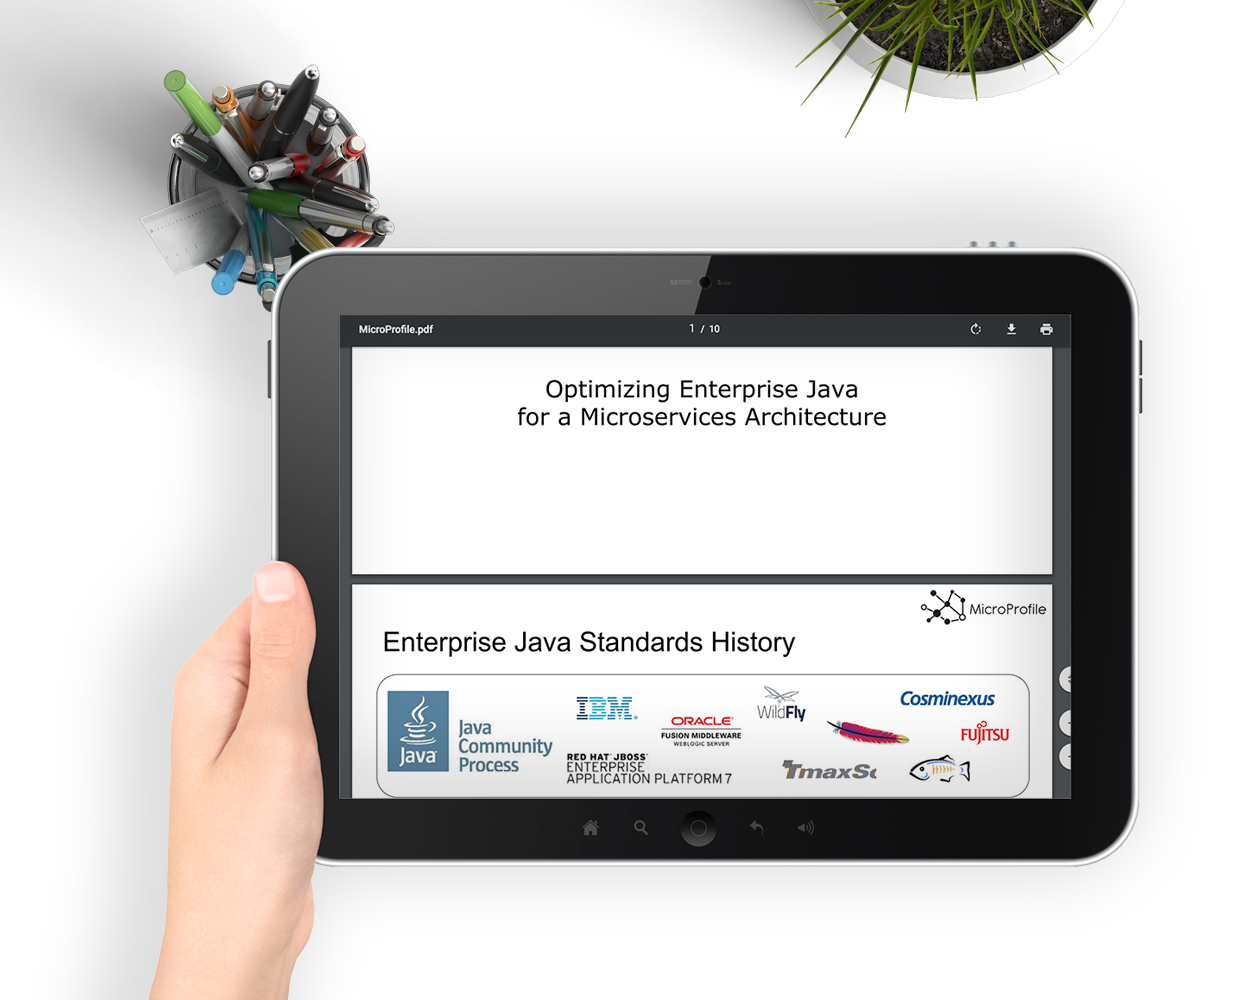
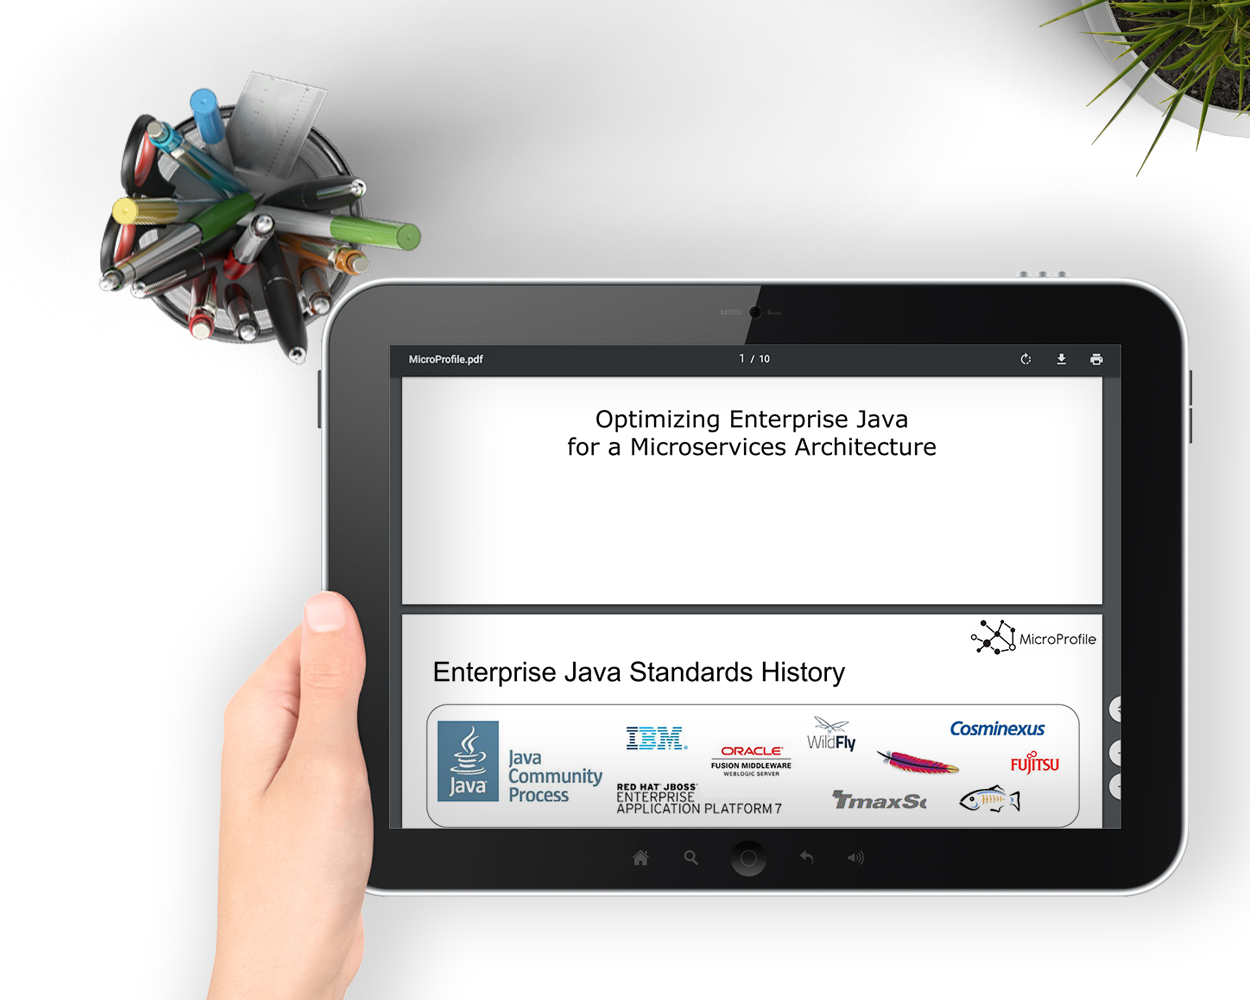
presentations pic

diff --git a/src/main/static/assets/styles/dir_presentations.sass b/src/main/static/assets/styles/dir_presentations.sass
@@ -4,12 +4,6 @@
 div[microprofileio-presentations]
   > div
     display: flex
-    @media (max-width: 1400px)
-      flex-direction: column
-    .text, .pic
-      height: 700px
-      @media (max-width: 1400px)
-        height: auto
     .text
       flex-grow: 1
       display: flex
@@ -37,11 +31,9 @@ div[microprofileio-presentations]
         font-weight: 300
         color: $app-black
     .pic
-      flex-shrink: 0
+      flex-grow: 1
+      @media (max-width: 1160px)
+        display: none
       img
-        height: 100%
-        width: auto
-        @media (max-width: 1400px)
-          height: auto
-          width: 100%
-          max-width: 875px
+        height: auto
+        width: 100%
